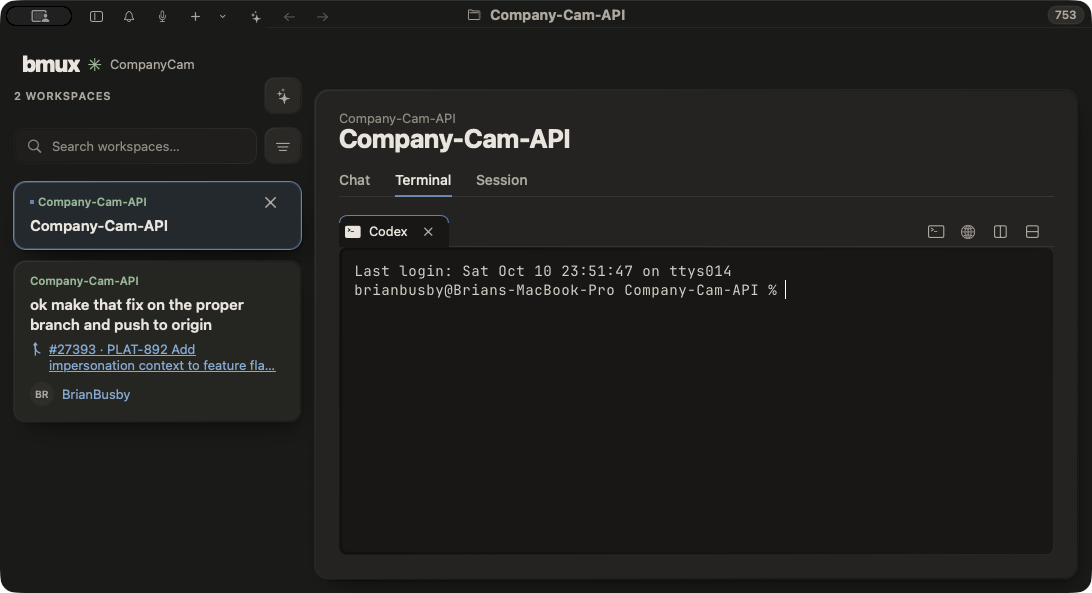
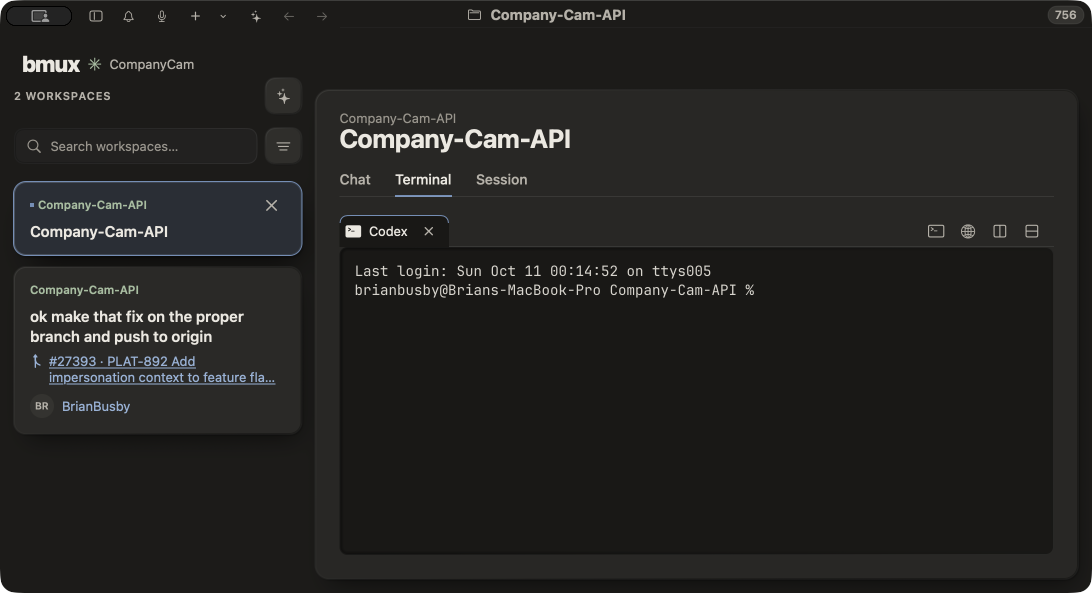
Match selected workspace card header to matte reference

diff --git a/Sources/Sidebar/WorkspaceReferenceCardView.swift b/Sources/Sidebar/WorkspaceReferenceCardView.swift
@@ -51,10 +51,10 @@ struct WorkspaceReferenceCardView: View {
 
     private var content: some View {
         VStack(alignment: .leading, spacing: theme.layout.cardContentGap) {
-            HStack(alignment: .top, spacing: 4) {
-                VStack(alignment: .leading, spacing: 4) {
+            HStack(alignment: .center, spacing: theme.layout.workspaceCardHeaderGap) {
+                VStack(alignment: .leading, spacing: theme.layout.workspaceCardHeaderGap) {
                     if repositoryName != nil || isSelected {
-                        HStack(spacing: 4) {
+                        HStack(spacing: theme.layout.workspaceCardHeaderGap) {
                             if isSelected {
                                 Rectangle()
                                     .frame(width: theme.layout.selectedMarkerSize, height: theme.layout.selectedMarkerSize)
@@ -78,7 +78,8 @@ struct WorkspaceReferenceCardView: View {
                 .frame(maxWidth: .infinity, alignment: .leading)
                 if card.hasActiveAIWork {
                     let label = String(localized: "sidebar.aiBusy.tooltip", defaultValue: "AI is running or needs input")
-                    TronLoadingIndicator(size: 18, color: color(.textSecondary), lineWidth: 1.5)
+                    TronLoadingIndicator(size: theme.layout.workspaceCardActivitySize, color: color(.textSecondary),
+                                         lineWidth: theme.layout.workspaceCardActivityStroke)
                         .frame(width: theme.layout.minimumHitSize, height: theme.layout.minimumHitSize)
                         .safeHelp(label)
                         .accessibilityLabel(label)
@@ -90,7 +91,7 @@ struct WorkspaceReferenceCardView: View {
                         .frame(width: theme.layout.minimumHitSize, height: theme.layout.minimumHitSize)
                 }
                 .buttonStyle(MatteButtonStyle(.flat, theme: theme, dimsWhenDisabled: isEnabled))
-                .frame(height: theme.layout.smallIconSize)
+                .frame(height: theme.layout.workspaceCardHeaderHeight)
                 .disabled(!canCloseWorkspace || card.hasActiveAIWork)
                 .opacity(showsClose ? 1 : 0)
                 .allowsHitTesting(showsClose)
@@ -98,6 +99,7 @@ struct WorkspaceReferenceCardView: View {
                 .safeHelp(String(localized: "sidebar.closeWorkspace.tooltip", defaultValue: "Close Workspace"))
                 .accessibilityIdentifier("WorkspaceReferenceCard.close.\(card.id)")
             }
+            .frame(minHeight: theme.layout.workspaceCardHeaderHeight)
             Text(card.title)
                 .matteTypography(.cardTitle, theme: theme)
                 .foregroundStyle(color(.textPrimary))

diff --git a/docs/design/matte-skin/verification-stage4/selected-card-comparison.html b/docs/design/matte-skin/verification-stage4/selected-card-comparison.html
@@ -1,0 +1,1 @@
+<!doctype html><html lang="en"><meta charset="utf-8"><title>Selected workspace card comparison</title><style>body{font:15px system-ui;margin:24px;background:#ddd9d0;color:#242320}.pair{display:flex;gap:32px;margin-bottom:28px}figure{margin:0}figcaption{padding:8px 0}.crop{position:relative;width:316px;height:104px;overflow:hidden}.crop img{position:absolute;max-width:none}.reference img{width:1183px;height:2048px;left:-52px;top:-354px}.native img{width:1092px;height:593px;left:0;top:-169px}</style><h1>Selected workspace card</h1><p>Reference and corrected native card at 1:1 screenshot scale. Both show ordinary selection; keyboard focus has a separate accessible outline. Texture remains off in the native app.</p><h2>Graphite</h2><div class="pair"><figure><figcaption>Reference</figcaption><div class="crop reference"><img src="../graphite-reference.png"></div></figure><figure><figcaption>Native</figcaption><div class="crop native"><img src="graphite-main-panel.png"></div></figure></div><h2>Porcelain</h2><div class="pair"><figure><figcaption>Reference</figcaption><div class="crop reference"><img src="../porcelain-reference.png"></div></figure><figure><figcaption>Native</figcaption><div class="crop native"><img src="porcelain-main-panel.png"></div></figure></div><p>The measured 20pt header fixes the compressed 14pt row. The 15pt/600 native title, specified padding, and minimum 28pt close target are preserved. See <a href="README.md">verification notes</a> for remaining native differences.</p></html>

diff --git a/Packages/macOS/BmuxAppKitSupportUI/Sources/BmuxAppKitSupportUI/Matte/MatteLayoutMetrics.swift b/Packages/macOS/BmuxAppKitSupportUI/Sources/BmuxAppKitSupportUI/Matte/MatteLayoutMetrics.swift
@@ -92,6 +92,18 @@ public struct MatteLayoutMetrics: Sendable {
     /// Card content padding in points.
     public let cardPadding: EdgeInsets
 
+    /// Minimum workspace-card header height measured from the reference; rich metadata may grow taller.
+    public let workspaceCardHeaderHeight: Double
+
+    /// Preserved spacing between workspace-card header metadata and controls.
+    public let workspaceCardHeaderGap: Double
+
+    /// Preserved size of the active-AI indicator in the workspace-card header.
+    public let workspaceCardActivitySize: Double
+
+    /// Preserved stroke width of the active-AI indicator in the workspace-card header.
+    public let workspaceCardActivityStroke: Double
+
     /// Gap within card content in points.
     public let cardContentGap: Double
 

diff --git a/Packages/macOS/BmuxAppKitSupportUI/Sources/BmuxAppKitSupportUI/Matte/MatteTheme.swift b/Packages/macOS/BmuxAppKitSupportUI/Sources/BmuxAppKitSupportUI/Matte/MatteTheme.swift
@@ -92,6 +92,8 @@ public struct MatteTheme: Sendable {
             terminalContentPadding: EdgeInsets(top: 12, leading: 13, bottom: 12, trailing: 13),
             sidebarMinimumWidth: 260, sidebarPreferredFraction: 0.27, sidebarMaximumWidth: 320,
             cardPadding: EdgeInsets(top: 13, leading: 16, bottom: 14, trailing: 16),
+            workspaceCardHeaderHeight: 20, workspaceCardHeaderGap: 4,
+            workspaceCardActivitySize: 18, workspaceCardActivityStroke: 1.5,
             cardContentGap: 7, cardGap: 12,
             panelPadding: EdgeInsets(top: 20, leading: 24, bottom: 24, trailing: 24),
             iconSize: 16, smallIconSize: 14, iconStroke: 1.7,

diff --git a/docs/design/matte-skin/verification-stage4/README.md b/docs/design/matte-skin/verification-stage4/README.md
@@ -3,16 +3,17 @@
 Main panel, native primary tabs, terminal tab strip/toolbar, terminal inset,
 window title and header now consume the shared matte theme. Texture is off.
 The [comparison](comparison.html) places each target app crop beside the native
-1092 × 593 capture (graphite build 753; porcelain build 754 after non-geometric
-token centralization and the Chat contrast fix). Prototype controls and inspection tooling are excluded.
+1092 × 593 captures from build 756, including the corrected selected-card header.
+The [selected-card comparison](selected-card-comparison.html) isolates that detail. Prototype controls and inspection tooling are excluded.
 
 ## Observed deviations and reasons
 
 - Main panel begins at approximately (314,90), versus (313,90) in the target;
   inset begins at (339,247), versus (336,246). Exact native 24pt padding, layout
   rounding and font metrics account for the remaining small offsets.
-- SF text rasterization and the native 650/750 weight interpolation differ from
-  the browser screenshot. Exact specified font sizes/weights remain authoritative.
+- Native SF rasterization differs from the browser screenshot. Intermediate
+  650/750 weights quantize on this macOS; browser equivalence is unverified.
+  The card’s specified 600 weight resolves to native semibold.
 - Terminal font, cursor, shell output, ANSI colors and wrapping remain native. The
   reference uses an HTML text fixture. Existing horizontal terminal scrolling is
   disabled; adding it would change behavior and is outside this approved skin.
@@ -25,14 +26,22 @@ token centralization and the Chat contrast fix). Prototype controls and inspecti
 - Two fixture workspaces are shown rather than the reference count of six. The
   second card lacks the original prompt preview, so it is shorter. Native PR
   text retains its existing two-line limit; the author remains its existing link.
-  The selected card is about 68pt versus 74pt, using the approved stage 3 native
-  type/spacing mapping. The sidebar is about 288pt versus 290pt.
+  The selected card now measures about 74pt, matching the reference after its
+  compressed header was corrected to 20pt. The sidebar is about 288pt versus 290pt.
 - Native negative-spread shadow/inner-edge rasterization uses the reviewed stage
   2 approximation. Native hovered-link underline is 1pt and selection mark 4pt,
   both explicitly approved.
 - Texture is intentionally absent until stage 5.
 
 ## Runtime evidence
+
+Build 756 passed the corrected card’s dark/light visual check at 1092 × 593,
+search → filter → selected-card keyboard traversal, and the separate close
+control. Closing the disposable selected workspace removed only that workspace;
+the remaining workspace stayed usable. The comparison fixture was then restored.
+Keyboard focus adds its specified outline without shifting or resizing the card.
+The 28pt close target is retained in source; pointer-edge hit coverage is not claimed.
+No user-facing strings changed in this geometry follow-up.
 
 Build 753 passed native keyboard traversal from search/filter through card
 controls to Chat/Terminal/Session, selected-button focus retention, Session

diff --git a/docs/design/matte-skin/implementation-plan.md b/docs/design/matte-skin/implementation-plan.md
@@ -538,3 +538,36 @@ in use and will not be quit/replaced. Final pushed-commit dogfood uses the
 separate `matte-skin-stage4-review` tag. The committed graphite/porcelain pair
 records builds 753/754; the final review build uses the same production sources
 with no further geometry changes. Full suite and app-host CI stay pending.
+
+## Selected-card visual follow-up
+
+Brian explicitly confirmed using screenshot measurements for unspecified spacing,
+and identified the selected sidebar card as still unlike the reference. Stage 4
+commit `00d3d13b8` had already been pushed and its isolated build 755 passed; this
+follow-up corrects the specific sidebar discrepancy before the next visual gate.
+
+Read-only comparison found a concrete header-line-box error: the close button’s
+outer 14pt frame collapsed the header, producing a roughly 68pt card versus 74pt
+in the reference. The title sat about 6pt too high and repository label about
+3–4pt too high. A measured 20pt, vertically centered header corrects this while
+preserving the authoritative 13/16/14 padding, 7pt gap, 15pt/600 title, and 28pt
+close target. Rich metadata can still increase row height. The semantic selected
+fill, 1pt ring, inner edges and level-2 shadows were already applied. The separate
+keyboard-focus outline must remain accessible; it is not the ordinary selection
+ring. Texture remains deferred.
+
+The selected card’s 600 weight correctly resolves to native semibold. Native
+650/750 requests quantize on this macOS, but that observation alone does not prove
+a browser-reference mismatch; no typography substitution or whole-UI scaling is
+authorized or introduced in this follow-up. Verification remains actual native
+card geometry in both appearances and close/focus targets, plus focused checks.
+
+
+Follow-up verification: tagged build 756 passed. Both 1092 × 593 captures now
+show the corrected approximately 74pt selected card. Live keyboard traversal
+reaches its selected accessibility element and adds a separate focus outline
+without a geometry change. Its independent close control removed only the
+disposable selected workspace; the fixture was restored afterward. Shared UI
+45 tests, source parse, length budget and diff checks passed. Independent review
+of the complete card/rail/focus path found no new state or ownership change.
+No localized strings changed. Full app-host/CI remains a separate pending gate.
